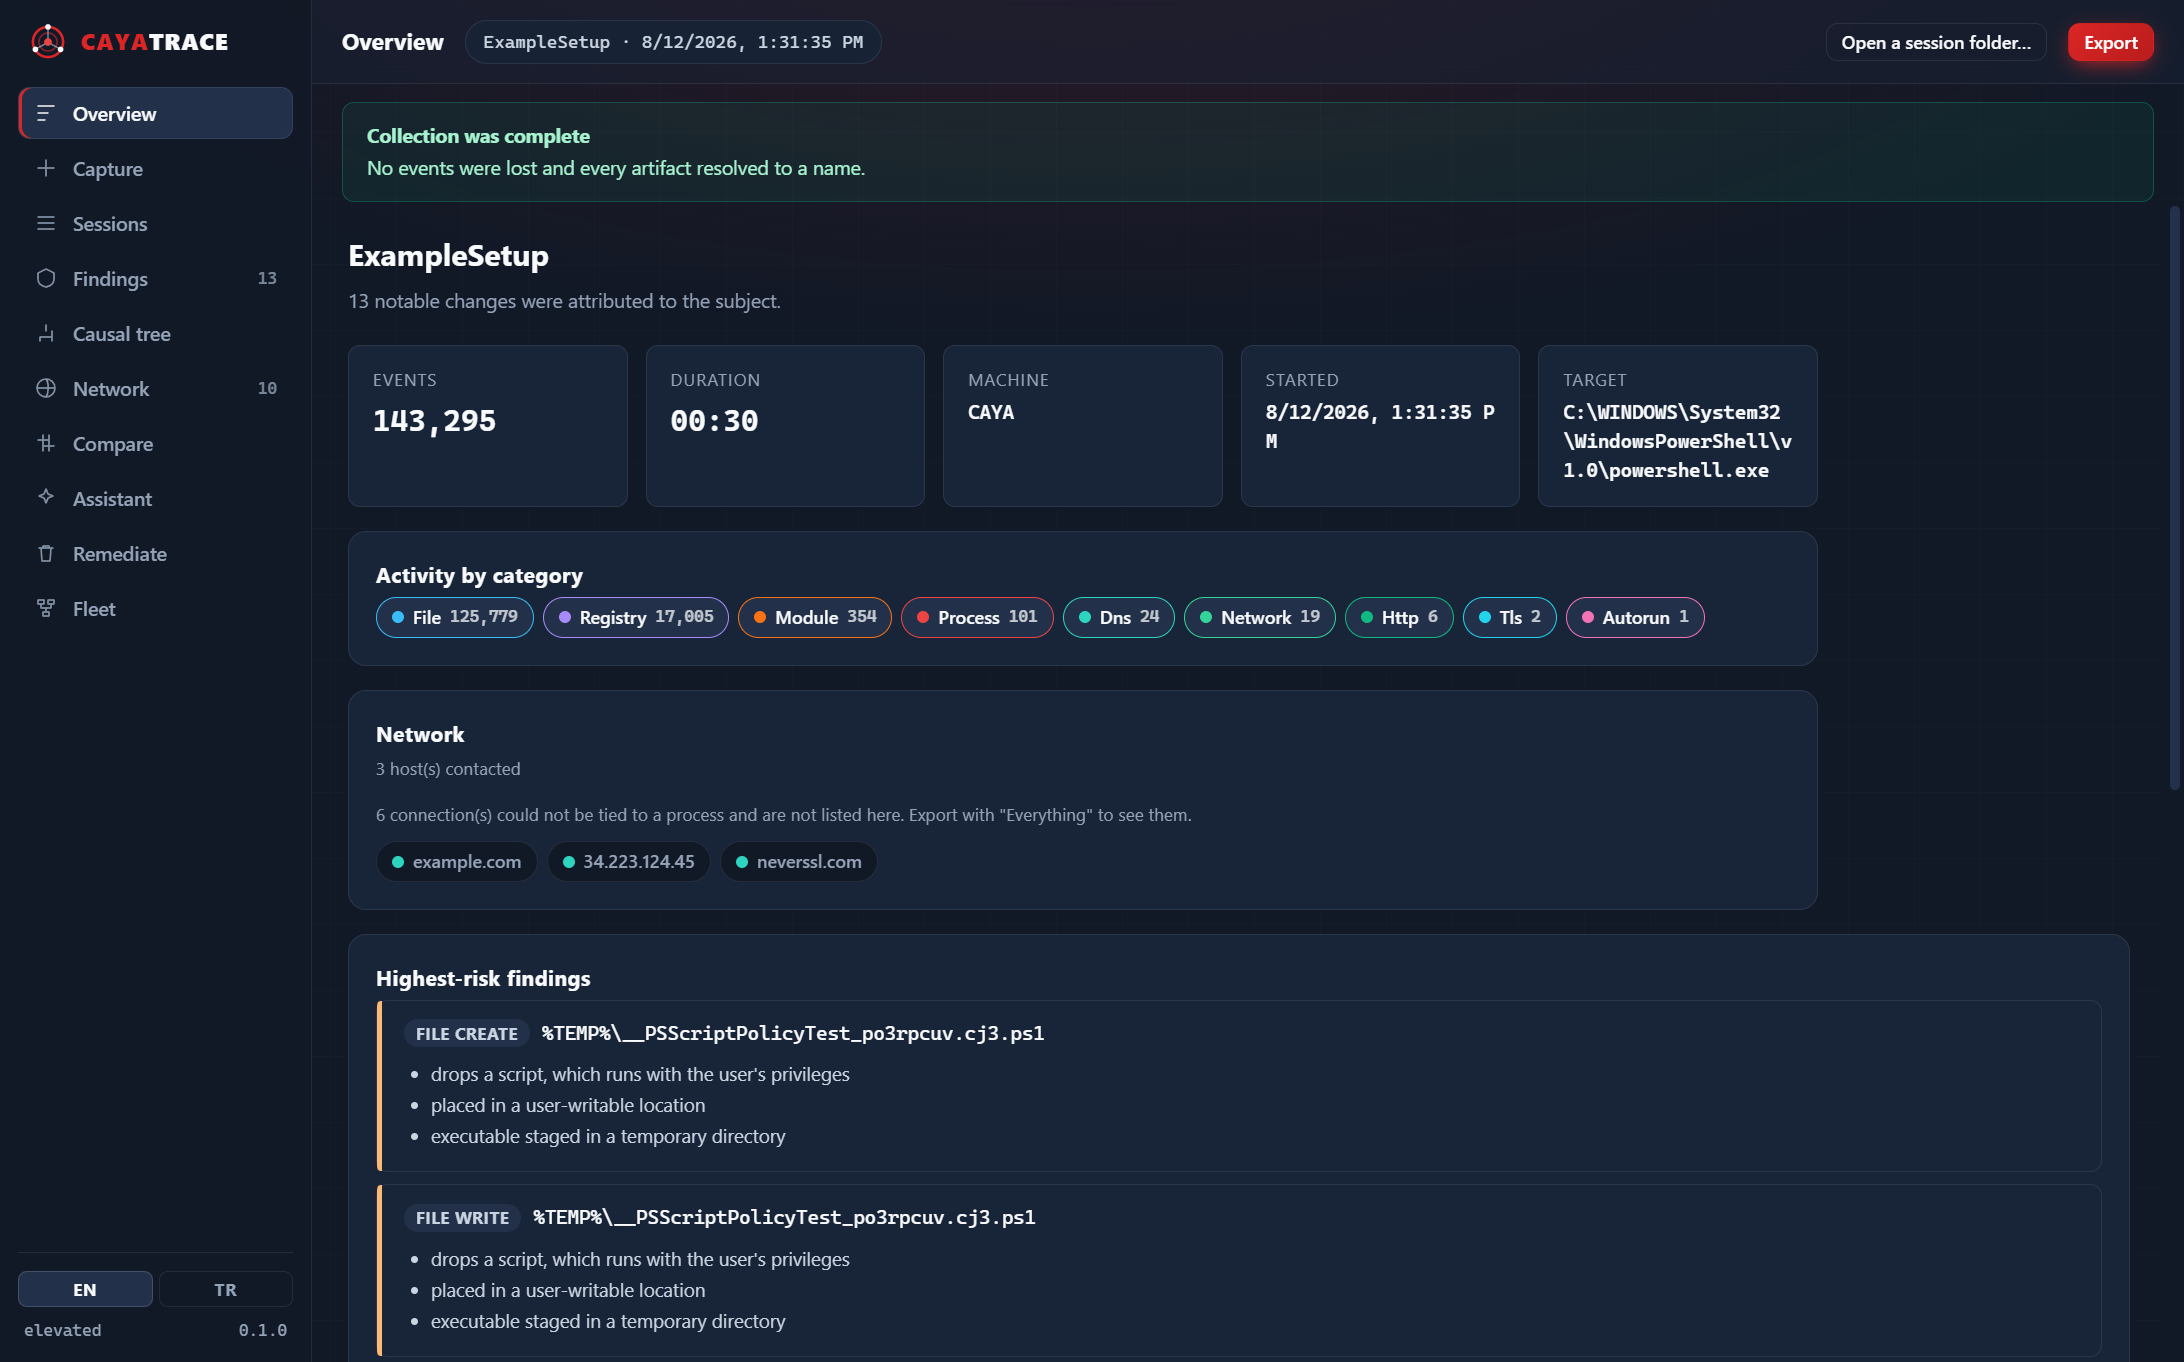
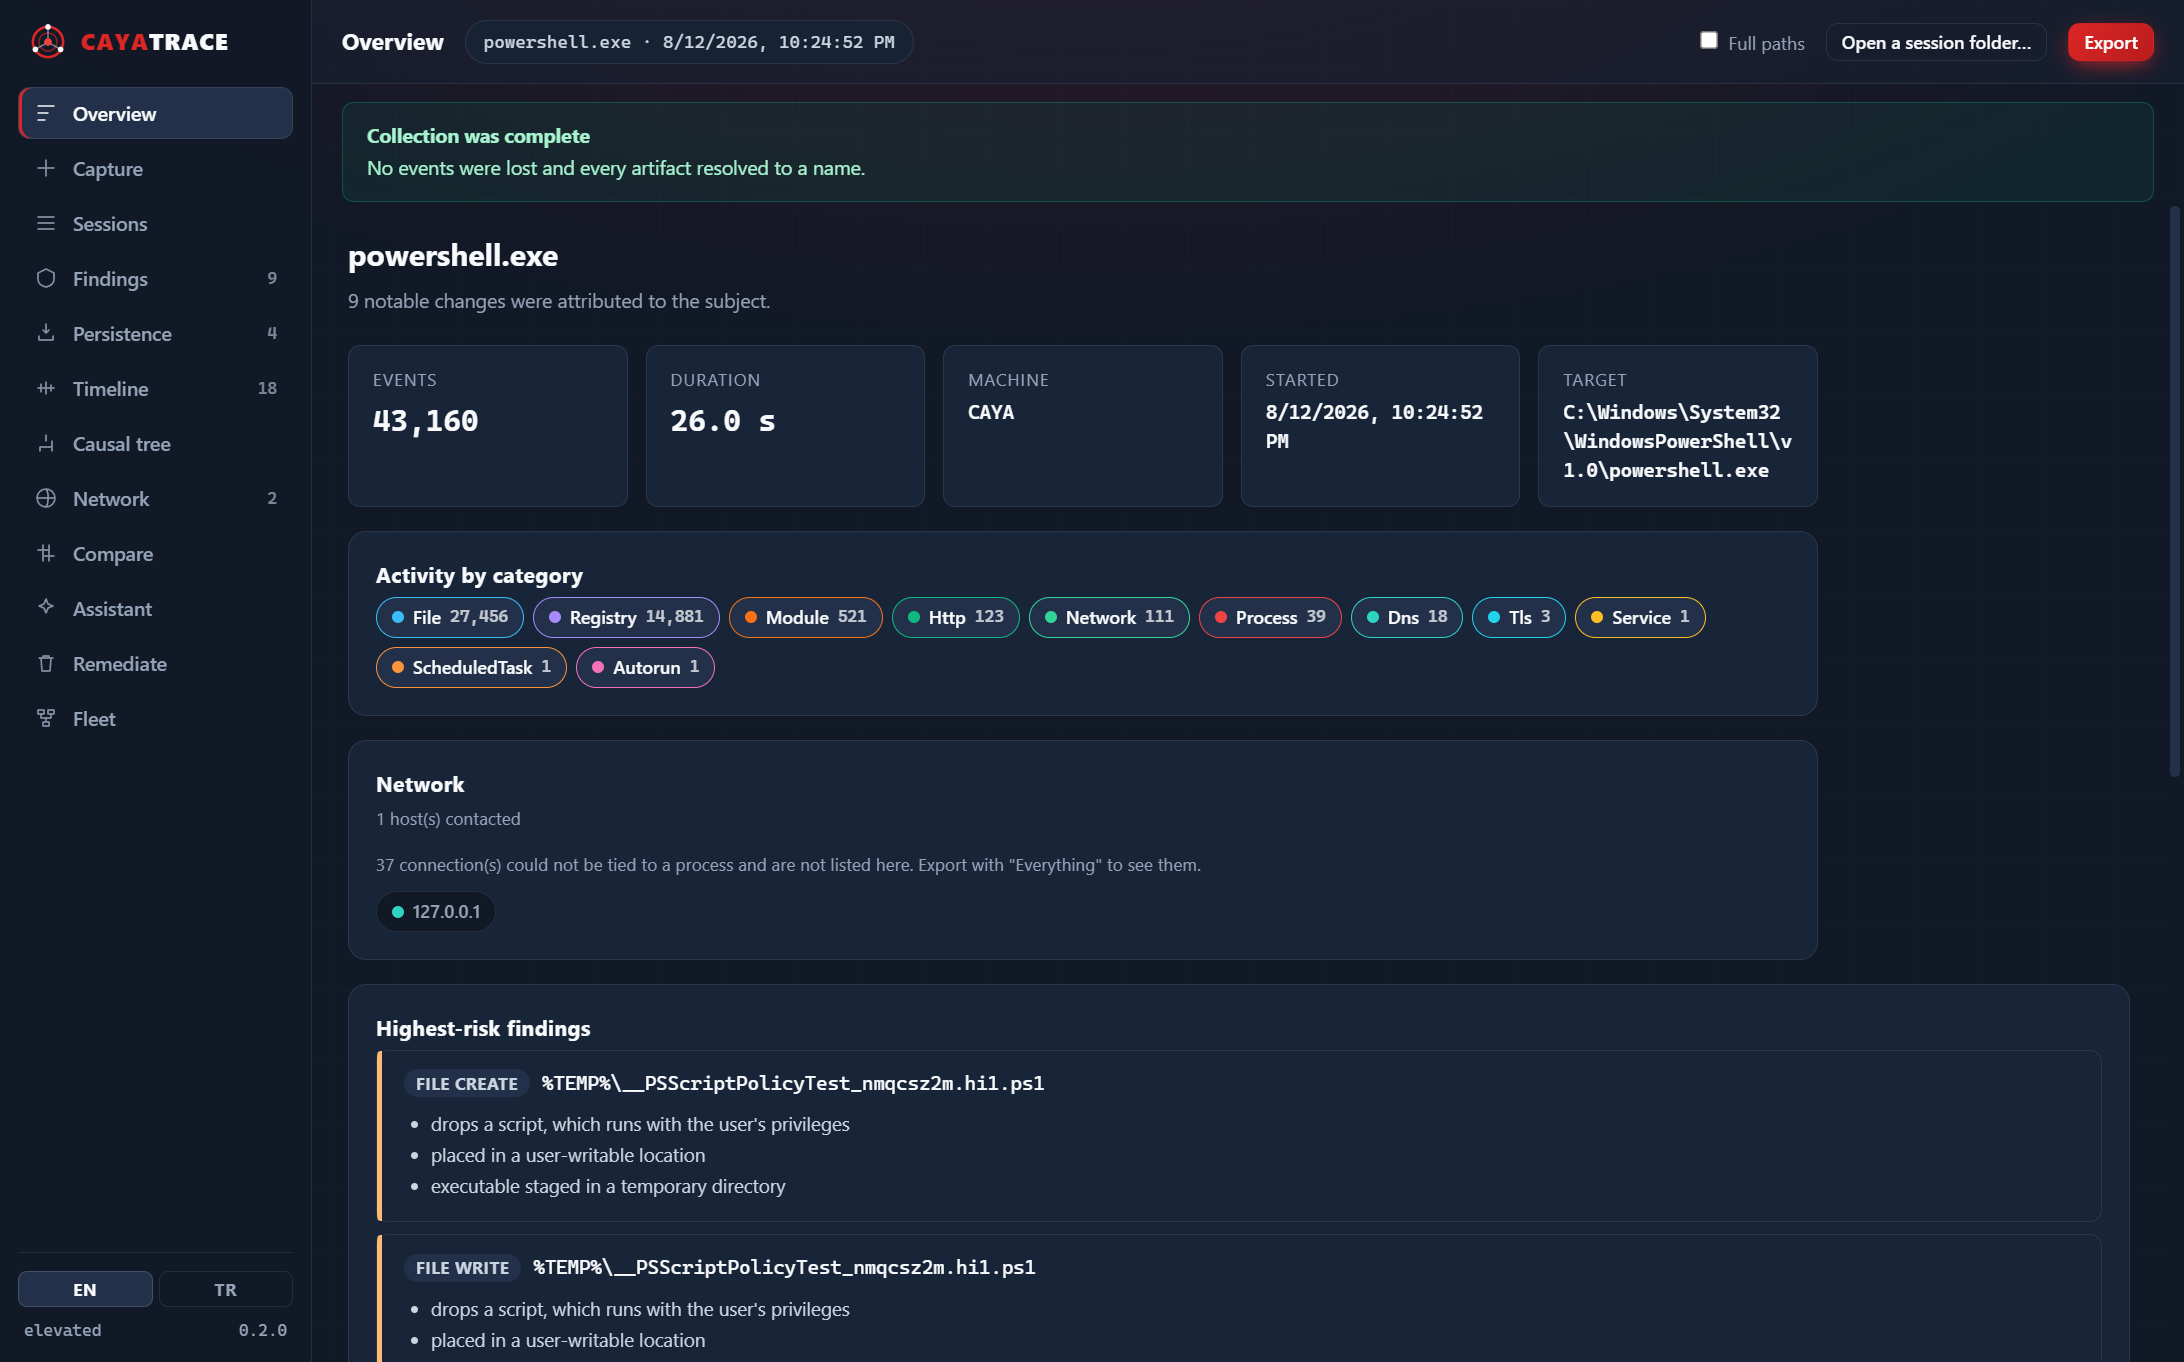
Open the timeline on what happened, and write down 0.2.0
The timeline opened on 447 rows of processes that were already running — Idle,
System, Secure System, smss — and the four programs the subject actually started
were somewhere below them. Those are context, not content, so they are folded
away behind a checkbox and the count in the rail agrees with what the view
shows: 18 instead of 447, starting with the subject, its command line, what it
touched and the startup entry it installed.

Docs brought up to date: the changelog describes what this round changed and
what each defect actually claimed, both READMEs list the new capabilities, and
the roadmap records that loopback conversation contents are still out of reach —
the Windows packet monitor observes network adapters and traffic that never
leaves the machine does not cross one.

Screenshots regenerated against a real recording of a program that installs a
service with recovery actions, a startup entry and a scheduled task, so the
persistence view in the documentation shows an actual service with its image
path, display name, account and decoded restart behaviour rather than an empty
state. The previous set was rendered by the stale published binary and had no
Persistence or Timeline in the rail at all.

diff --git a/src/CaYaTrace.App/Assets/workbench.html b/src/CaYaTrace.App/Assets/workbench.html
@@ -215,7 +215,7 @@
           <input type="search" id="timelineSearch" data-i18n-placeholder="timeline.filter_placeholder"
                  autocomplete="off" spellcheck="false">
           <label class="check"><input type="checkbox" id="timelineNotable">
-            <span data-i18n="timeline.notable_only"></span></label>
+            <span data-i18n="timeline.include_existing"></span></label>
         </div>
         <div id="timelineBody" style="padding:16px 0 40px"></div>
       </section>
@@ -420,7 +420,13 @@ const state = {
 
   /* Conversation view: the reader chooses what to read, not the tool. */
   timelineQuery: '',
-  timelineNotable: false,
+
+  /*
+   * Processes that were already running are context, not content. A session's timeline
+   * opening on Idle, System and smss.exe buries the four programs the subject actually
+   * started, so they are folded away until asked for.
+   */
+  timelinePreExisting: false,
 
   /*
    * Tokenised paths are the default and stay the default: they are what makes two
@@ -667,7 +673,12 @@ function needsSession(id) {
 function navCount(id) {
   if (id === 'findings' && state.findings.length) return formatNumber(state.findings.length);
   if (id === 'persistence' && state.persistence.length) return formatNumber(state.persistence.length);
-  if (id === 'timeline' && state.timeline.length) return formatNumber(state.timeline.length);
+  if (id === 'timeline') {
+    // What started during the session, not everything that was running — the count
+    // should agree with what the view opens on.
+    const started = state.timeline.filter(e => !e.preExisting).length;
+    return started ? formatNumber(started) : '';
+  }
   if (id === 'network') {
     const n = state.network.requests.length + state.network.flows.length;
     return n ? formatNumber(n) : '';
@@ -2564,7 +2575,7 @@ function renderTimeline() {
 
   const q = state.timelineQuery.trim().toLowerCase();
   const rows = state.timeline.filter(e => {
-    if (state.timelineNotable && !(e.notes || []).length) return false;
+    if (e.preExisting && !state.timelinePreExisting) return false;
     if (!q) return true;
     return (e.name || '').toLowerCase().includes(q)
         || (e.path || '').toLowerCase().includes(q)
@@ -2980,7 +2991,7 @@ function wire() {
   });
 
   document.getElementById('timelineNotable').addEventListener('change', e => {
-    state.timelineNotable = e.target.checked;
+    state.timelinePreExisting = e.target.checked;
     renderTimeline();
   });
 

diff --git a/CHANGELOG.md b/CHANGELOG.md
@@ -4,6 +4,106 @@ All notable changes to CaYaTrace are recorded here. Format follows
 [Keep a Changelog](https://keepachangelog.com/en/1.1.0/); versioning follows
 [Semantic Versioning](https://semver.org/).
 
+## [0.2.0] — 2026-08-12
+
+Recorded the same installer with two other tools at the same time, on the same machine,
+and compared what each of them said. Almost everything below came out of that comparison
+or out of running the result — the evidence was already being collected and nothing was
+reading it.
+
+### Added
+
+**Persistence** — a view, and a model behind it. Every way a program arranged to run
+again, one entry per mechanism rather than one per registry value, carrying what it
+configured: image path, display name, start type, delayed start, account, and its recovery
+actions decoded into words. Covers services, drivers, scheduled tasks, run keys, startup
+folders, logon hooks, launch hijacking, AppInit and AppCert DLLs, boot execution,
+authentication packages, security providers, netsh helpers, print monitors, time
+providers, Winsock providers, COM servers, shell extensions, browser add-ons, Active
+Setup, group policy scripts and command-prompt autorun.
+
+**Timeline** — what ran, in order, for how long, under which parent, with what command
+line, and what each one touched. It says plainly that Windows will not report which
+process closed another without a kernel driver, rather than guessing from timing.
+
+**Conversations** — the contents of what crossed the wire, reassembled from the packet
+capture and grouped by whether the peer is on this machine, on the local network, or on
+the internet. The local-network grouping is the point: a program talking to a peer or to
+its own second copy appears in no firewall log, no proxy and no HTTP stack. Bodies are
+stored content-addressed and opened on demand.
+
+**Ask the session** — the assistant answers questions about what was recorded. Answers
+are computed from the session; a local model, when one is configured, only rewords them,
+is never asked to find anything, and cannot introduce a fact. Both are shown separately.
+With no model the answers still work.
+
+**Removal, finished** — progress while it runs, what fought it, and what to do with what
+was quarantined: keep, put back, or delete for good. Anything configured to restart itself
+is disarmed first — recovery actions cleared, autostart set to manual, watchdog groups
+stopped together — because a removal running while its subject puts itself back looks like
+it worked. Packages can now be opened and applied from the window.
+
+**Fleet, both halves** — a machine can join a fleet from the window instead of only from a
+terminal. Each connected machine gets its own panel with a live sample of what it is
+doing, its process list, and the ability to stop a process, its children, or a service.
+That is bounded on the agent side: it refuses anything the kernel marks critical and
+re-checks every process id before acting. Recording options are chosen per run, and a
+finished agent stays connected so a second recording does not mean re-pairing a machine
+that was already trusted.
+
+Also: an option to see what a path token stands for on the machine that recorded it, and
+the workbench lets go of its console rather than hiding it — so software that kills
+console hosts cannot take a recording with it, and starting the tool from a terminal no
+longer hides the operator's own window.
+
+### Fixed
+
+Each of these was found by reading real output, not by reading code.
+
+- **A transferred session lost everything that made it readable.** 106,311 observations
+  arrived with zero processes and zero flows, because the agent streamed only
+  observations. The whole causal tree hung under one "(unattributed)" root, the network
+  view was empty, and nothing could be tied to the subject.
+- **61 critical "code injection" findings, every one Windows acting on Windows.** The
+  judgment moved out of the collector — where signatures are not yet verified and a
+  discard is permanent — into the scorer, and the trust test is the code signature rather
+  than the path, because software that wants to look like Windows installs itself inside
+  the Windows directory.
+- **1,864 of 2,000 findings were Windows Update.** Suppressed only when Microsoft signed
+  the writer, so an unknown binary in the update cache is still one of the loudest things
+  the scorer can say, and capped per category so no one category can fill the list again.
+- **33,467 registry observations produced no registry findings at all**, while a
+  comparison tool reported both installed services with their full configuration from the
+  same machine.
+- **A system-wide recording reported zero findings.** There is no subject in one, so
+  nothing is in scope, and narrowing to the subject narrowed to nothing.
+- **The plan and the analysis disagreed about what had been installed.** A program does
+  not install a service, it asks the service control manager to — so the change belongs to
+  another process and scoping to the subject's tree discarded exactly the artifacts that
+  mattered most.
+- **One service was reported twice and one task three times**, because the kernel, the
+  inventory, the registry key and the tree entry each spell the same thing differently.
+- **A scheduled task reported what it is called and never what it runs**, because the
+  registry holds its actions as a binary blob.
+- **Every reassembled conversation named the recording machine as the host contacted.**
+  The canonical flow key orders its endpoints for accumulation, not by which end is local.
+- **Quarantine listed nothing after moving three files**, because the reader was written
+  against an invented journal schema rather than the one the runner writes.
+- **Removal plans proposed certificate stores and shell state.** The crypto API creates a
+  store wherever a component asks for one, so the shape is the rule, not the parent; and
+  Desktop and Documents disappearing from Explorer's sidebar after a removal is worth
+  refusing a whole class over.
+- **`FailureActions` decoded wrongly.** The header is five fields, not four, and the action
+  count routinely overstates. Verified against `sc qfailure` rather than documentation.
+- Long paths pushed the whole page sideways and clipped every card; the tool reported its
+  own tracing buffers as findings; and a startup entry appeared twice in a plan.
+
+### Notes
+
+Loopback conversations are seen as connections but their contents are not captured: the
+Windows packet monitor observes network adapters, and traffic that never leaves the
+machine does not cross one. Use the intercepting proxy for local HTTP.
+
 ## [0.1.0] — 2026-08-12
 
 First public release. One portable executable: a workbench window for the whole workflow, and
@@ -82,4 +182,5 @@ Embedding removal payloads into the executable was tested and rejected: patching
 into a .NET single-file bundle truncated a 67 MB host to 9.6 MB and corrupted it. Packages
 ship as `.ctpkg` sidecars. See [PACKAGE-FORMAT.md](docs/PACKAGE-FORMAT.md).
 
+[0.2.0]: https://github.com/CaYatur/CaYaTrace/releases/tag/v0.2.0
 [0.1.0]: https://github.com/CaYatur/CaYaTrace/releases/tag/v0.1.0

diff --git a/README.tr.md b/README.tr.md
@@ -7,7 +7,7 @@
 [![Lisans: MIT](https://img.shields.io/badge/Lisans-MIT-dc2626.svg)](LICENSE)
 [![Platform](https://img.shields.io/badge/platform-Windows%2010%20%7C%2011-111826.svg)](#gereksinimler)
 [![.NET](https://img.shields.io/badge/.NET-8.0-182438.svg)](#gereksinimler)
-[![Durum](https://img.shields.io/badge/durum-0.1.0%20önizleme-b91c1c.svg)](docs/ROADMAP.md)
+[![Durum](https://img.shields.io/badge/durum-0.2.0%20önizleme-b91c1c.svg)](docs/ROADMAP.md)
 
 [English README](README.md) · [Mimari](docs/ARCHITECTURE.md) · [Güvenlik](SECURITY.md) · [Yol haritası](docs/ROADMAP.md)
 
@@ -72,7 +72,7 @@ hiç çalışmadığı bir cihaza götürüp orada temizlik yapabilirsiniz — h
 - **Cihazı bozamayacak bir kaldırma.** Geçersiz kılınamayan yasak listesi, parmak izi
   doğrulaması, silme yerine karantina, geri alma günlüğü ve varsayılan olarak prova modu.
 
-## Durum — 0.1.0 önizleme
+## Durum — 0.2.0 önizleme
 
 Bu erken bir sürüm. Bugün gerçekten çalışan ile yalnızca tasarlanmış olan dürüstçe ayrılmıştır:
 
@@ -99,6 +99,12 @@ Bu erken bir sürüm. Bugün gerçekten çalışan ile yalnızca tasarlanmış o
 | VirusTotal itibar sorgusu (hash ile, asla yükleme yapmaz) | ✅ çalışıyor |
 | Kategori ve derinlik seçimli HTML / JSON / CSV / metin dışa aktarma | ✅ çalışıyor |
 | Sistem dilini izleyen Türkçe ve İngilizce arayüz | ✅ çalışıyor |
+| Kalıcılık: bir programın tekrar çalışmak için kullandığı her yöntem ve ayarları | ✅ çalışıyor |
+| Süreç zaman çizelgesi: ne çalıştı, ne kadar, hangi üst süreçle, neye dokundu | ✅ çalışıyor |
+| Paketlerden yeniden kurulan konuşma içerikleri; yerel ağ ile internet ayrı | ✅ çalışıyor |
+| Oturuma soru sorma: yanıtlar kayıttan hesaplanır, model yalnızca yeniden ifade eder | ✅ çalışıyor |
+| Kaldırma ilerlemesi, kendini koruma etkisizleştirme, karantina: tut/geri koy/sil | ✅ çalışıyor |
+| Filo: pencereden katılma, makine başına canlı görünüm, uzaktan süreç/servis durdurma | ✅ çalışıyor |
 
 ## Çalışma tezgâhı
 

diff --git a/README.md b/README.md
@@ -7,7 +7,7 @@
 [![License: MIT](https://img.shields.io/badge/License-MIT-dc2626.svg)](LICENSE)
 [![Platform](https://img.shields.io/badge/platform-Windows%2010%20%7C%2011-111826.svg)](#requirements)
 [![.NET](https://img.shields.io/badge/.NET-8.0-182438.svg)](#requirements)
-[![Status](https://img.shields.io/badge/status-0.1.0%20preview-b91c1c.svg)](docs/ROADMAP.md)
+[![Status](https://img.shields.io/badge/status-0.2.0%20preview-b91c1c.svg)](docs/ROADMAP.md)
 
 [Türkçe README](README.tr.md) · [Architecture](docs/ARCHITECTURE.md) · [Security](SECURITY.md) · [Roadmap](docs/ROADMAP.md)
 
@@ -69,7 +69,7 @@ machine before anything is touched.
 - **Removal that cannot brick the machine.** Non-overridable deny list, fingerprint
   verification, quarantine instead of delete, rollback journal, dry run by default.
 
-## Status — 0.1.0 preview
+## Status — 0.2.0 preview
 
 This is an early release. What is real today versus designed is tracked honestly:
 
@@ -96,6 +96,12 @@ This is an early release. What is real today versus designed is tracked honestly
 | VirusTotal reputation (hash lookup, never uploads) | ✅ working |
 | HTML / JSON / CSV / text export with category and depth selection | ✅ working |
 | Turkish and English interface, following the system language | ✅ working |
+| Persistence: every mechanism a program uses to run again, with what it configured | ✅ working |
+| Process timeline: what ran, for how long, under which parent, and what it touched | ✅ working |
+| Conversation contents reassembled from packets, split by local network vs internet | ✅ working |
+| Ask the session: answers computed from the recording, a model only rewords them | ✅ working |
+| Removal progress, self-protection disarming, and quarantine keep/restore/delete | ✅ working |
+| Fleet: join from the window, per-machine live view, remote stop of a process or service | ✅ working |
 
 ## The workbench
 

diff --git a/docs/ROADMAP.md b/docs/ROADMAP.md
@@ -76,7 +76,13 @@ data genuinely more useful than reading two sessions side by side.
 
 ## Later
 
-- Timeline scrubbing and a virtualized tree
+- Scrubbing along the timeline, and a virtualized tree. The timeline itself landed in
+  0.2.0; what is still missing is dragging a window across it and seeing the rest of the
+  views follow.
+- Contents of loopback conversations. They are visible as connections, but the Windows
+  packet monitor observes network adapters and traffic that never leaves the machine does
+  not cross one. The intercepting proxy covers local HTTP; anything else would need a
+  different capture path.
 - Redaction pass before sharing a session
 - Comparison results shown in the workbench alongside the CLI output
 - ARM64 release binaries
